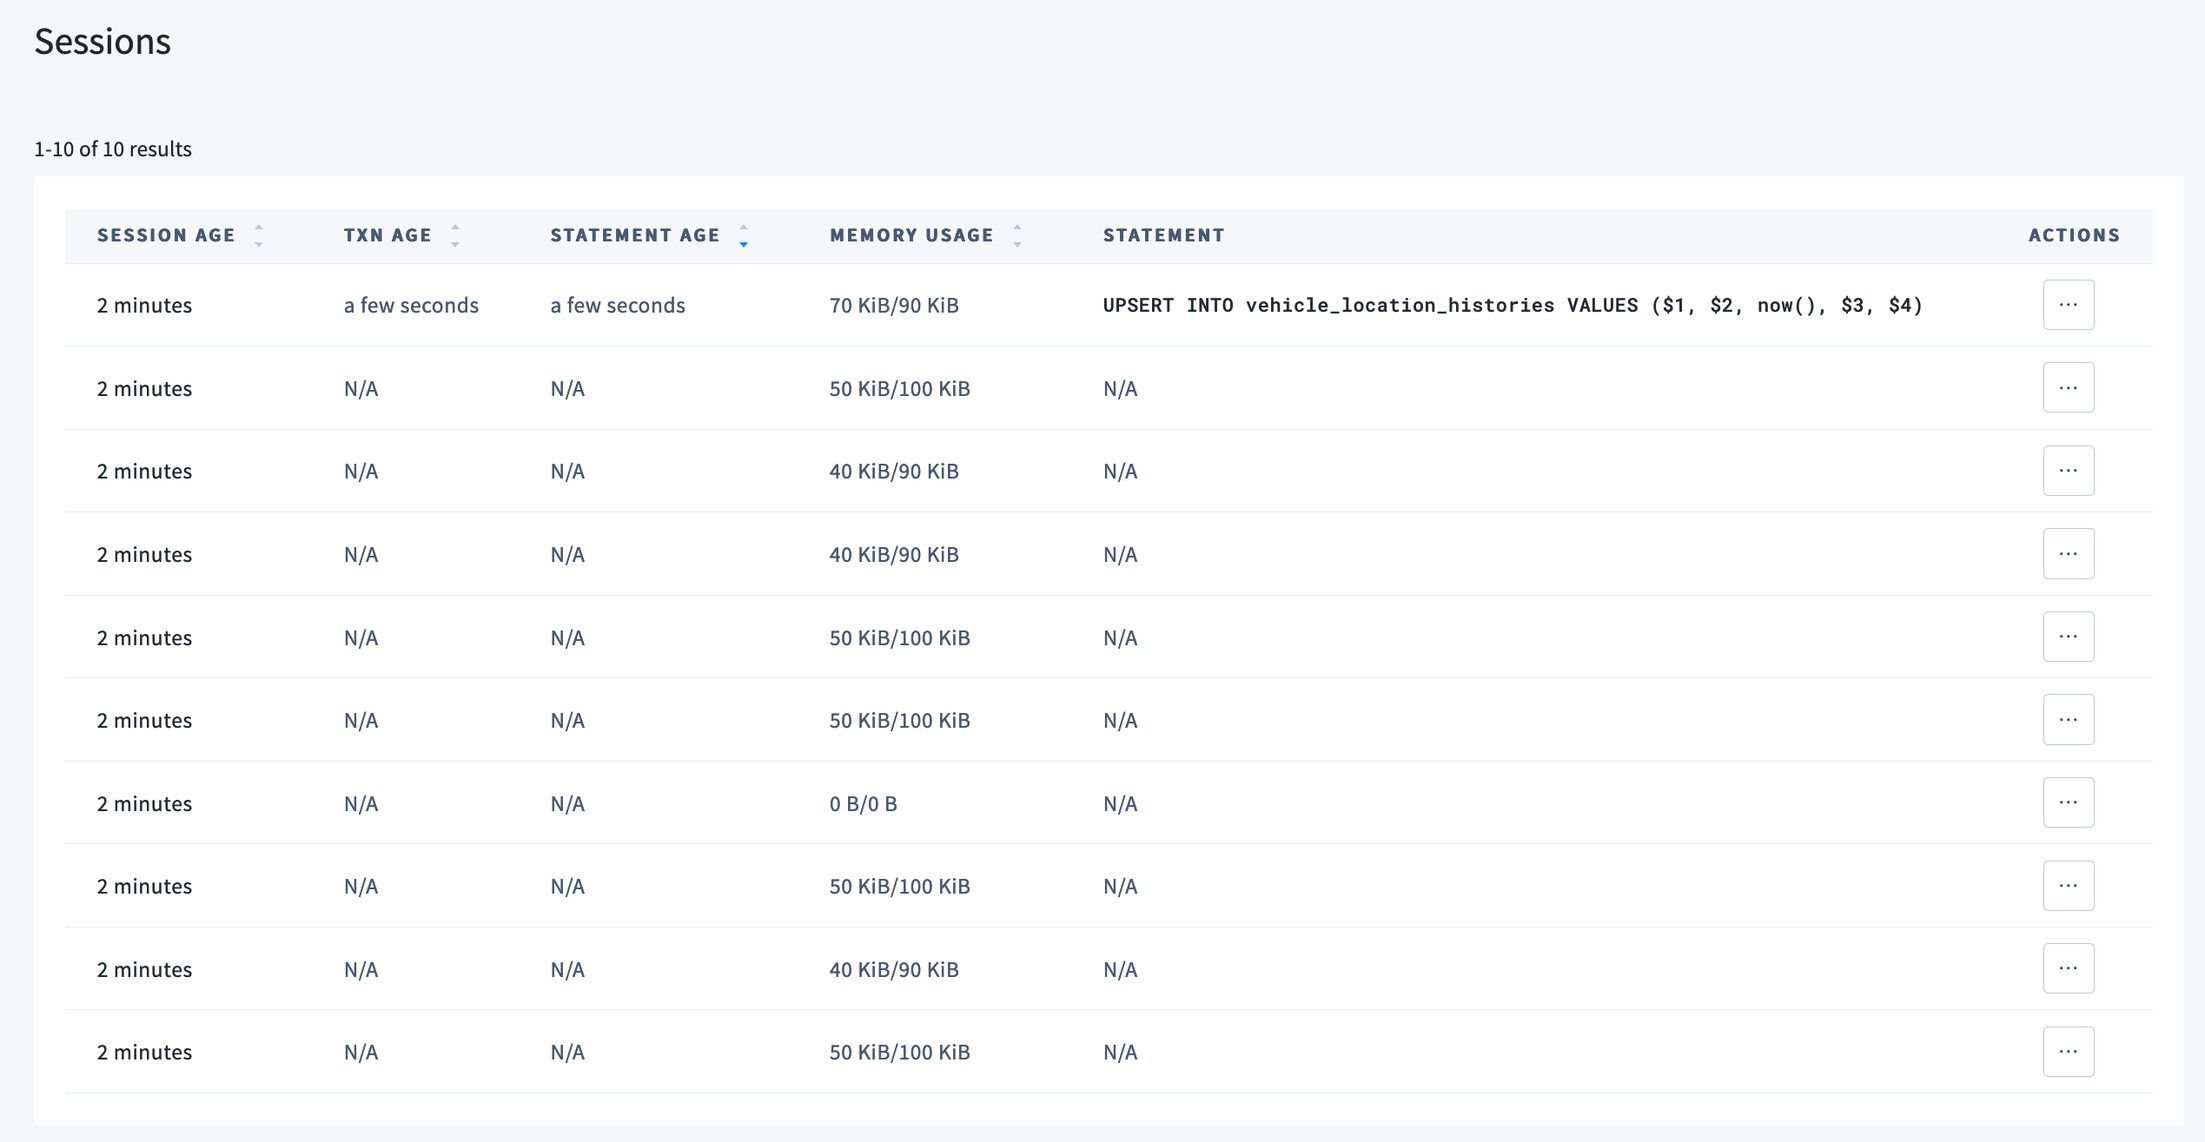
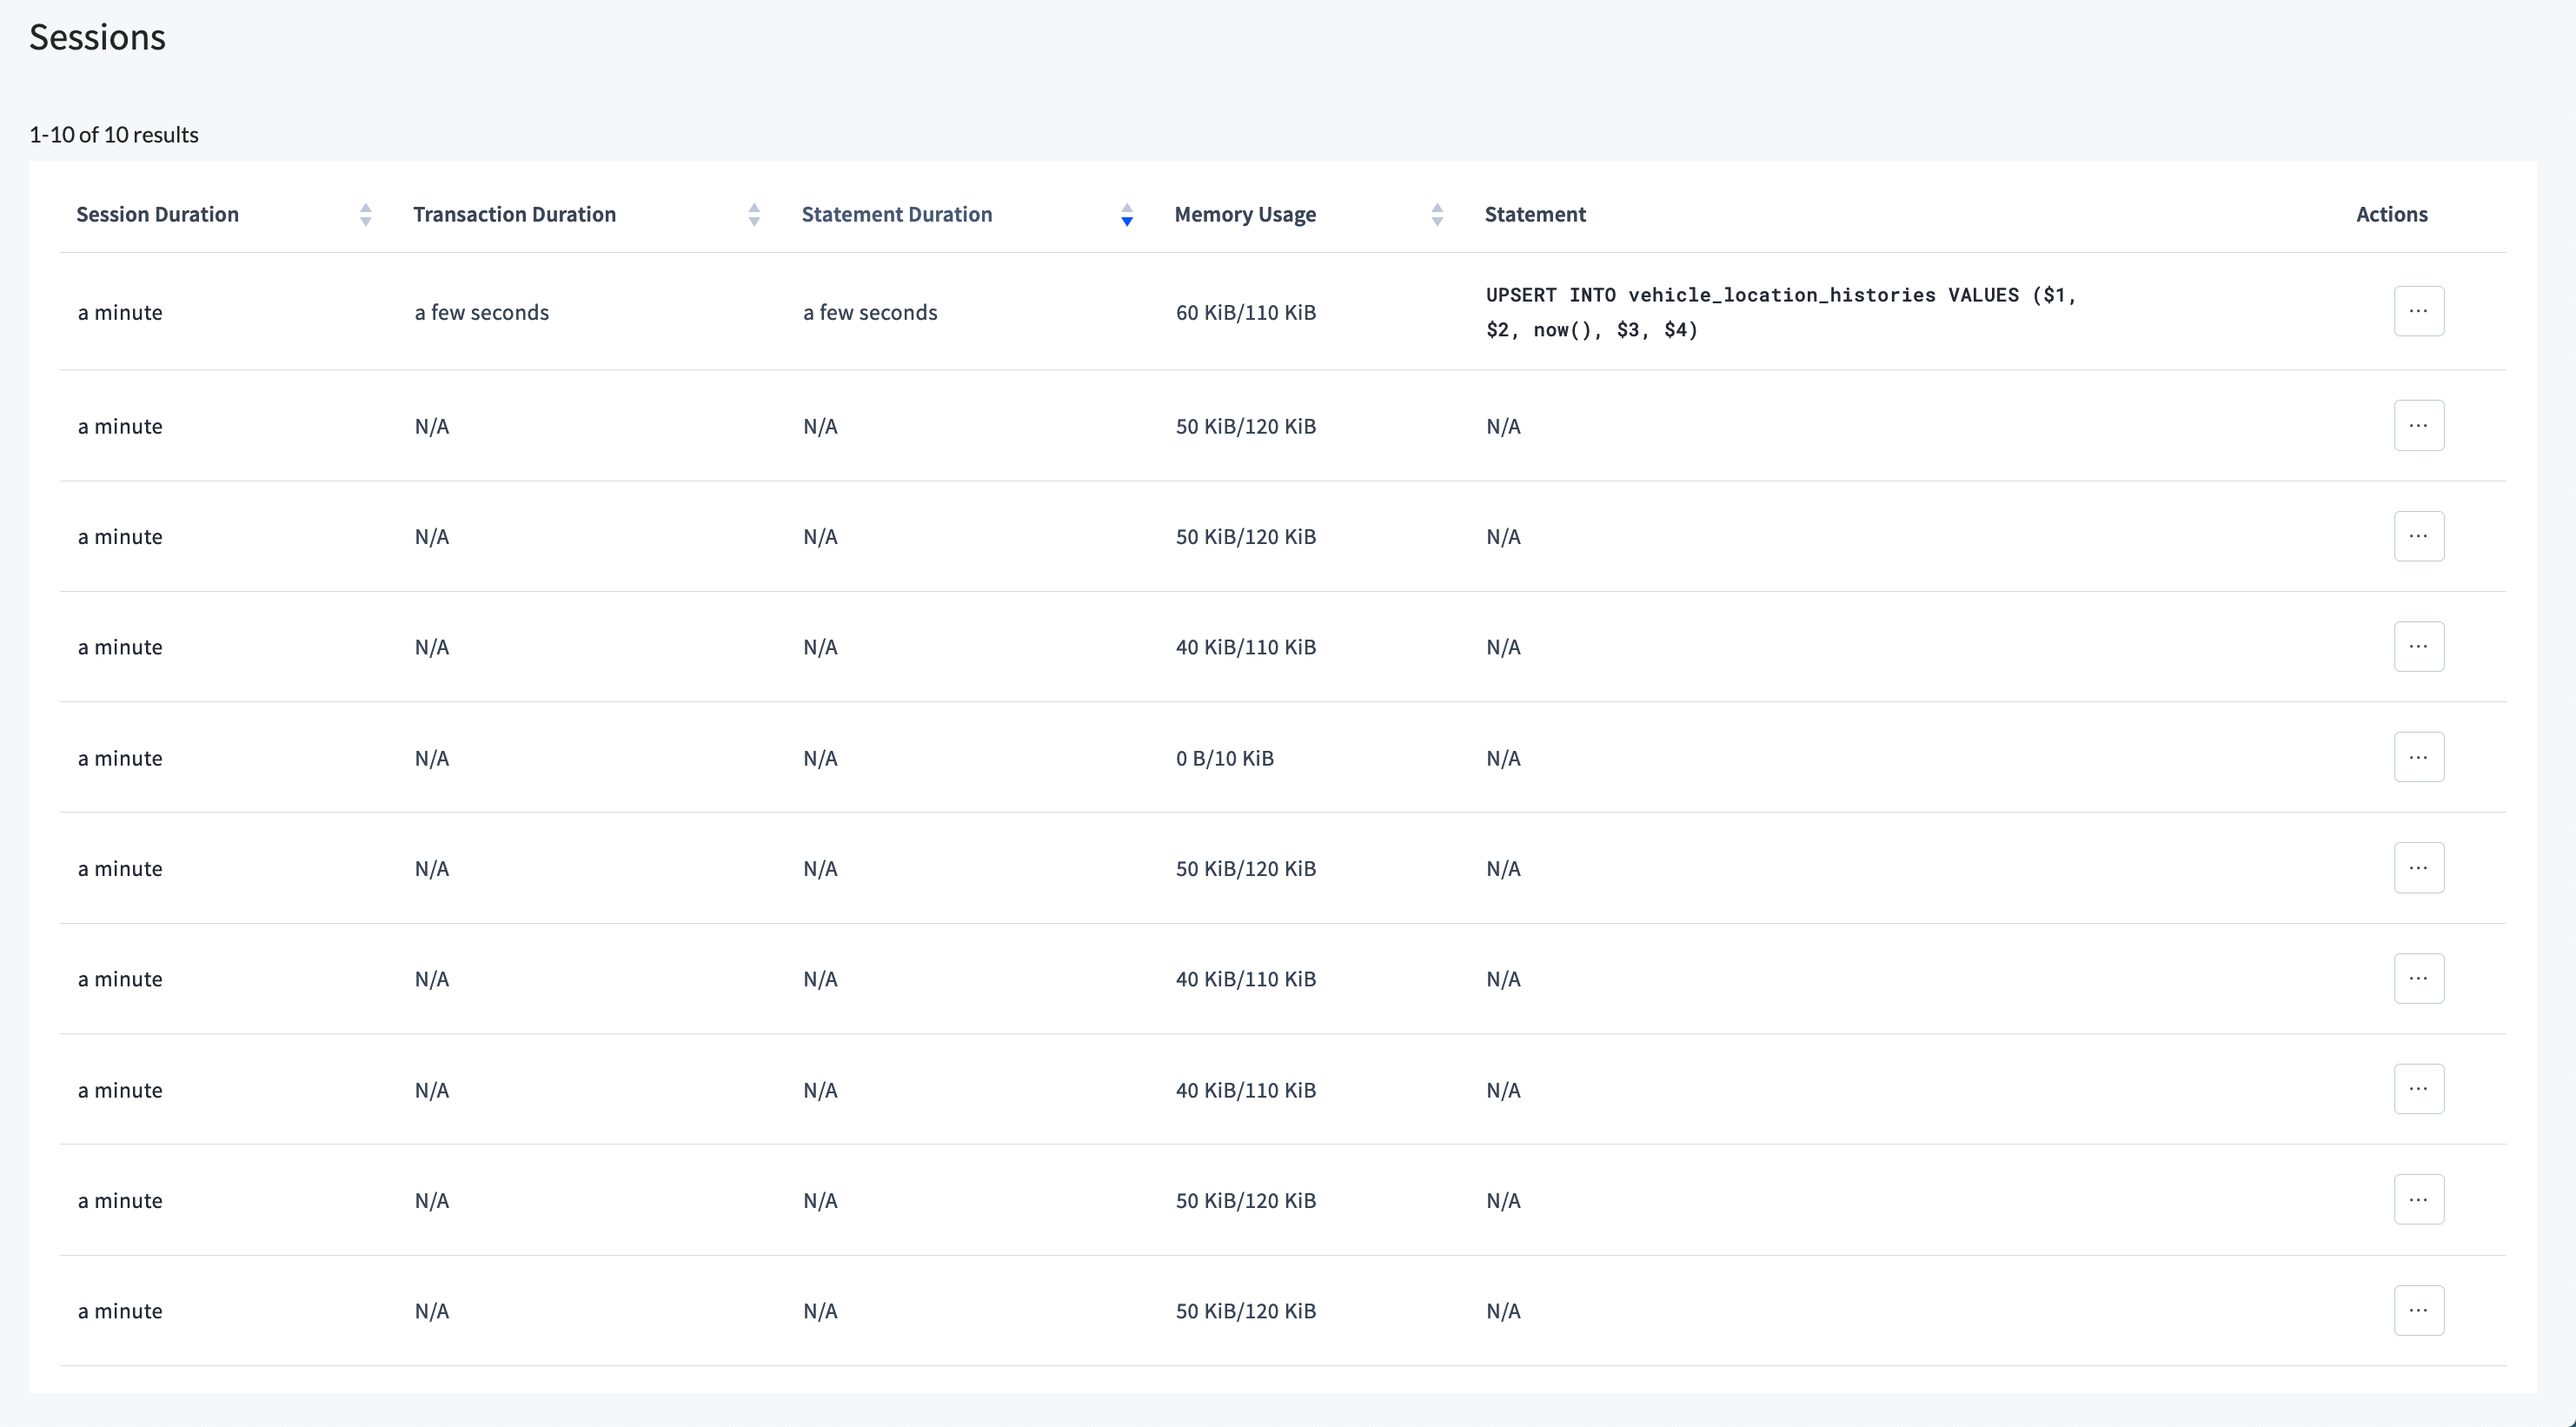
mikeCRL comments, terminology updates, new callout

diff --git a/v21.1/ui-sessions-page.md b/v21.1/ui-sessions-page.md
@@ -18,11 +18,16 @@ To view this page, [access the DB Console](ui-overview.html#db-console-access) a
 Use the **Sessions** list to see the open sessions in the cluster. This includes active and idle sessions.
 
 {{site.data.alerts.callout_info}}
-A session is *active* if it has an open transaction (including implicit transactions, which are individual SQL statements), and *idle* if it has no open transaction. Active sessions consume [hardware resources](recommended-production-settings.html#hardware).
+A session is *active* if it has an open transaction (including implicit transactions, which are individual SQL statements), and *idle* if it has no open transaction. Active sessions consume hardware resources.
 {{site.data.alerts.end}}
 
-- If an active session also has an open transaction, the most recent SQL statement will be displayed in the **Statement** column.
-- To view [details of a session](#session-details), click on the **Session Age**.
+- If a session is active, the most recent SQL statement is displayed in the **Statement** column.
+- If a session is idle, **Transaction Duration**, **Statement Duration**, and **Statement** will display `N/A`.
+- To view [details of a session](#session-details), click the **Session Duration**.
+
+{{site.data.alerts.callout_info}}
+An active session can have an open transaction that is not currently running SQL. In this case, the **Statement** and **Statement Duration** columns will display `N/A` and **Transaction Duration** will display a value. Transactions that are held open can cause [contention](performance-best-practices-overview#understanding-and-avoiding-transaction-contention).
+{{site.data.alerts.end}}
 
 <img src="{{ 'images/v21.1/ui-sessions-page.png' | relative_url }}" alt="DB Console Database Tables View" style="border:1px solid #eee;max-width:100%" />
 
@@ -30,20 +35,20 @@ The following are displayed for each active session:
 
 Parameter | Description
 --------- | -----------
-Session Age | Amount of time the session has been open.
-Txn Duration | Amount of time the transaction has been active, if there is an open transaction.
-Statement Age | Amount of time the SQL statement has been active, if there is an active statement.
-Memory Usage | Amount of memory currently allocated to this session / maximum amount of memory this session has ever been allocated.
+Session Duration | Amount of time the session has been open.
+Transaction Duration | Amount of time the transaction has been active, if there is an open transaction.
+Statement Duration | Amount of time the SQL statement has been active, if there is an active statement.
+Memory Usage | Amount of memory currently allocated to this session, followed by the maximum amount of memory this session has ever been allocated.
 Statement | Active SQL statement. If more than one statement is active, the most recent statement is shown.
 Actions | Options to terminate the active query and/or terminate the session. These require the [`CANCELQUERY` role option](authorization.html#create-and-manage-users).<br><br>**Terminate Statement:** Ends the SQL statement. The session running this statement will receive an error.<br><br>**Terminate Session:** Ends the session. The client that holds this session will receive a "connection terminated" event.
 
 {{site.data.alerts.callout_success}}
-Sort by **Txn Duration** to display all active sessions at the top.
+Sort by **Transaction Duration** to display all active sessions at the top.
 {{site.data.alerts.end}}
 
 ## Session details
 
-Click the **Session Age** of any session to display details and possible actions for that session.
+Click the **Session Duration** of any session to display details and possible actions for that session.
 
 <img src="{{ 'images/v21.1/ui-sessions-details-page.png' | relative_url }}" alt="DB Console Database Tables View" style="border:1px solid #eee;max-width:100%" />
 
@@ -51,7 +56,7 @@ Click the **Session Age** of any session to display details and possible actions
 	- **Session Start Time** shows the timestamp at which the session started.
 	- **Gateway Node** shows the node ID and IP address/port of the [gateway](architecture/life-of-a-distributed-transaction.html#gateway) node handling the client connection.
 	- **Client Address** shows the IP address/port of the client that opened the session.
-	- **Memory Usage** shows the amount of memory currently allocated to this session / maximum amount of memory this session has ever allocated.
+	- **Memory Usage** shows the amount of memory currently allocated to this session, followed by the maximum amount of memory this session has ever allocated.
 	- The **Terminate Session** button ends the session. The client that holds this session will receive a "connection terminated" event.
 	- The **Terminate Statement** button ends the SQL statement. The session running this statement will receive an error.
 - **Transaction** will display the following information for an open transaction.
@@ -62,7 +67,7 @@ Click the **Session Age** of any session to display details and possible actions
 	- **Priority** shows the [priority](transactions.html#transaction-priorities) for the transaction.
 	- **Read Only?** shows whether the transaction is read-only.
 	- **AS OF SYSTEM TIME?** shows whether the transaction uses [`AS OF SYSTEM TIME`](performance-best-practices-overview.html#use-as-of-system-time-to-decrease-conflicts-with-long-running-queries) to return historical data.
-	- **Memory Usage** shows the amount of memory currently allocated to this transaction / maximum amount of memory this transaction has ever allocated.
+	- **Memory Usage** shows the amount of memory currently allocated to this transaction, followed by the maximum amount of memory this transaction has ever allocated.
 - **Statement** will display the following information for an active statement.
 	- The SQL statement is shown.
 	- **Execution Start Time** shows the timestamp at which the statement was run.

diff --git a/cockroachcloud/sessions-page.md b/cockroachcloud/sessions-page.md
@@ -16,8 +16,13 @@ Use the **Sessions** list to see the open sessions in the cluster. This includes
 A session is *active* if it has an open transaction (including implicit transactions, which are individual SQL statements), and *idle* if it has no open transaction. Active sessions consume hardware resources.
 {{site.data.alerts.end}}
 
-- If an active session also has an open transaction, the most recent SQL statement will be displayed in the **Statement** column.
-- To view [details of a session](#session-details), click on the **Session Age**.
+- If a session is active, the most recent SQL statement is displayed in the **Statement** column.
+- If a session is idle, **Transaction Duration**, **Statement Duration**, and **Statement** will display `N/A`.
+- To view [details of a session](#session-details), click the **Session Duration**.
+
+{{site.data.alerts.callout_info}}
+An active session can have an open transaction that is not currently running SQL. In this case, the **Statement** and **Statement Duration** columns will display `N/A` and **Transaction Duration** will display a value. Transactions that are held open can cause [contention](performance-best-practices-overview#understanding-and-avoiding-transaction-contention).
+{{site.data.alerts.end}}
 
 <img src="{{ 'images/cockroachcloud/sessions-page.png' | relative_url }}" alt="CockroachCloud Console Database Tables View" style="border:1px solid #eee;max-width:100%" />
 
@@ -25,20 +30,20 @@ The following are displayed for each active session:
 
 Parameter | Description
 --------- | -----------
-Session Age | Amount of time the session has been open.
-Txn Duration | Amount of time the transaction has been active, if there is an open transaction.
-Statement Age | Amount of time the SQL statement has been active, if there is an active statement.
-Memory Usage | Amount of memory currently allocated to this session / maximum amount of memory this session has ever been allocated.
+Session Duration | Amount of time the session has been open.
+Transaction Duration | Amount of time the transaction has been active, if there is an open transaction.
+Statement Duration | Amount of time the SQL statement has been active, if there is an active statement.
+Memory Usage | Amount of memory currently allocated to this session, followed by the maximum amount of memory this session has ever been allocated.
 Statement | Active SQL statement. If more than one statement is active, the most recent statement is shown.
 Actions | Options to terminate the active query and/or terminate the session. These require the [`CANCELQUERY` role option](../stable/authorization.html#create-and-manage-users).<br><br>**Terminate Statement:** Ends the SQL statement. The session running this statement will receive an error.<br><br>**Terminate Session:** Ends the session. The client that holds this session will receive a "connection terminated" event.
 
 {{site.data.alerts.callout_success}}
-Sort by **Txn Duration** to display all active sessions at the top.
+Sort by **Transaction Duration** to display all active sessions at the top.
 {{site.data.alerts.end}}
 
 ## Session details
 
-Click the **Session Age** of any session to display details and possible actions for that session.
+Click the **Session Duration** of any session to display details and possible actions for that session.
 
 <img src="{{ 'images/cockroachcloud/sessions-details-page.png' | relative_url }}" alt="CockroachCloud Console Database Tables View" style="border:1px solid #eee;max-width:100%" />
 
@@ -46,7 +51,7 @@ Click the **Session Age** of any session to display details and possible actions
 	- **Session Start Time** shows the timestamp at which the session started.
 	- **Gateway Node** shows the node ID and IP address/port of the [gateway](architecture/life-of-a-distributed-transaction.html#gateway) node handling the client connection.
 	- **Client Address** shows the IP address/port of the client that opened the session.
-	- **Memory Usage** shows the amount of memory currently allocated to this session / maximum amount of memory this session has ever allocated.
+	- **Memory Usage** shows the amount of memory currently allocated to this session, followed by the maximum amount of memory this session has ever allocated.
 	- The **Terminate Session** button ends the session. The client that holds this session will receive a "connection terminated" event.
 	- The **Terminate Statement** button ends the SQL statement. The session running this statement will receive an error.
 - **Transaction** will display the following information for an open transaction.
@@ -57,7 +62,7 @@ Click the **Session Age** of any session to display details and possible actions
 	- **Priority** shows the [priority](../stable/transactions.html#transaction-priorities) for the transaction.
 	- **Read Only?** shows whether the transaction is read-only.
 	- **AS OF SYSTEM TIME?** shows whether the transaction uses [`AS OF SYSTEM TIME`](../stable/performance-best-practices-overview.html#use-as-of-system-time-to-decrease-conflicts-with-long-running-queries) to return historical data.
-	- **Memory Usage** shows the amount of memory currently allocated to this transaction / maximum amount of memory this transaction has ever allocated.
+	- **Memory Usage** shows the amount of memory currently allocated to this transaction, followed by the maximum amount of memory this transaction has ever allocated.
 - **Statement** will display the following information for an active statement.
 	- The SQL statement is shown.
 	- **Execution Start Time** shows the timestamp at which the statement was run.
